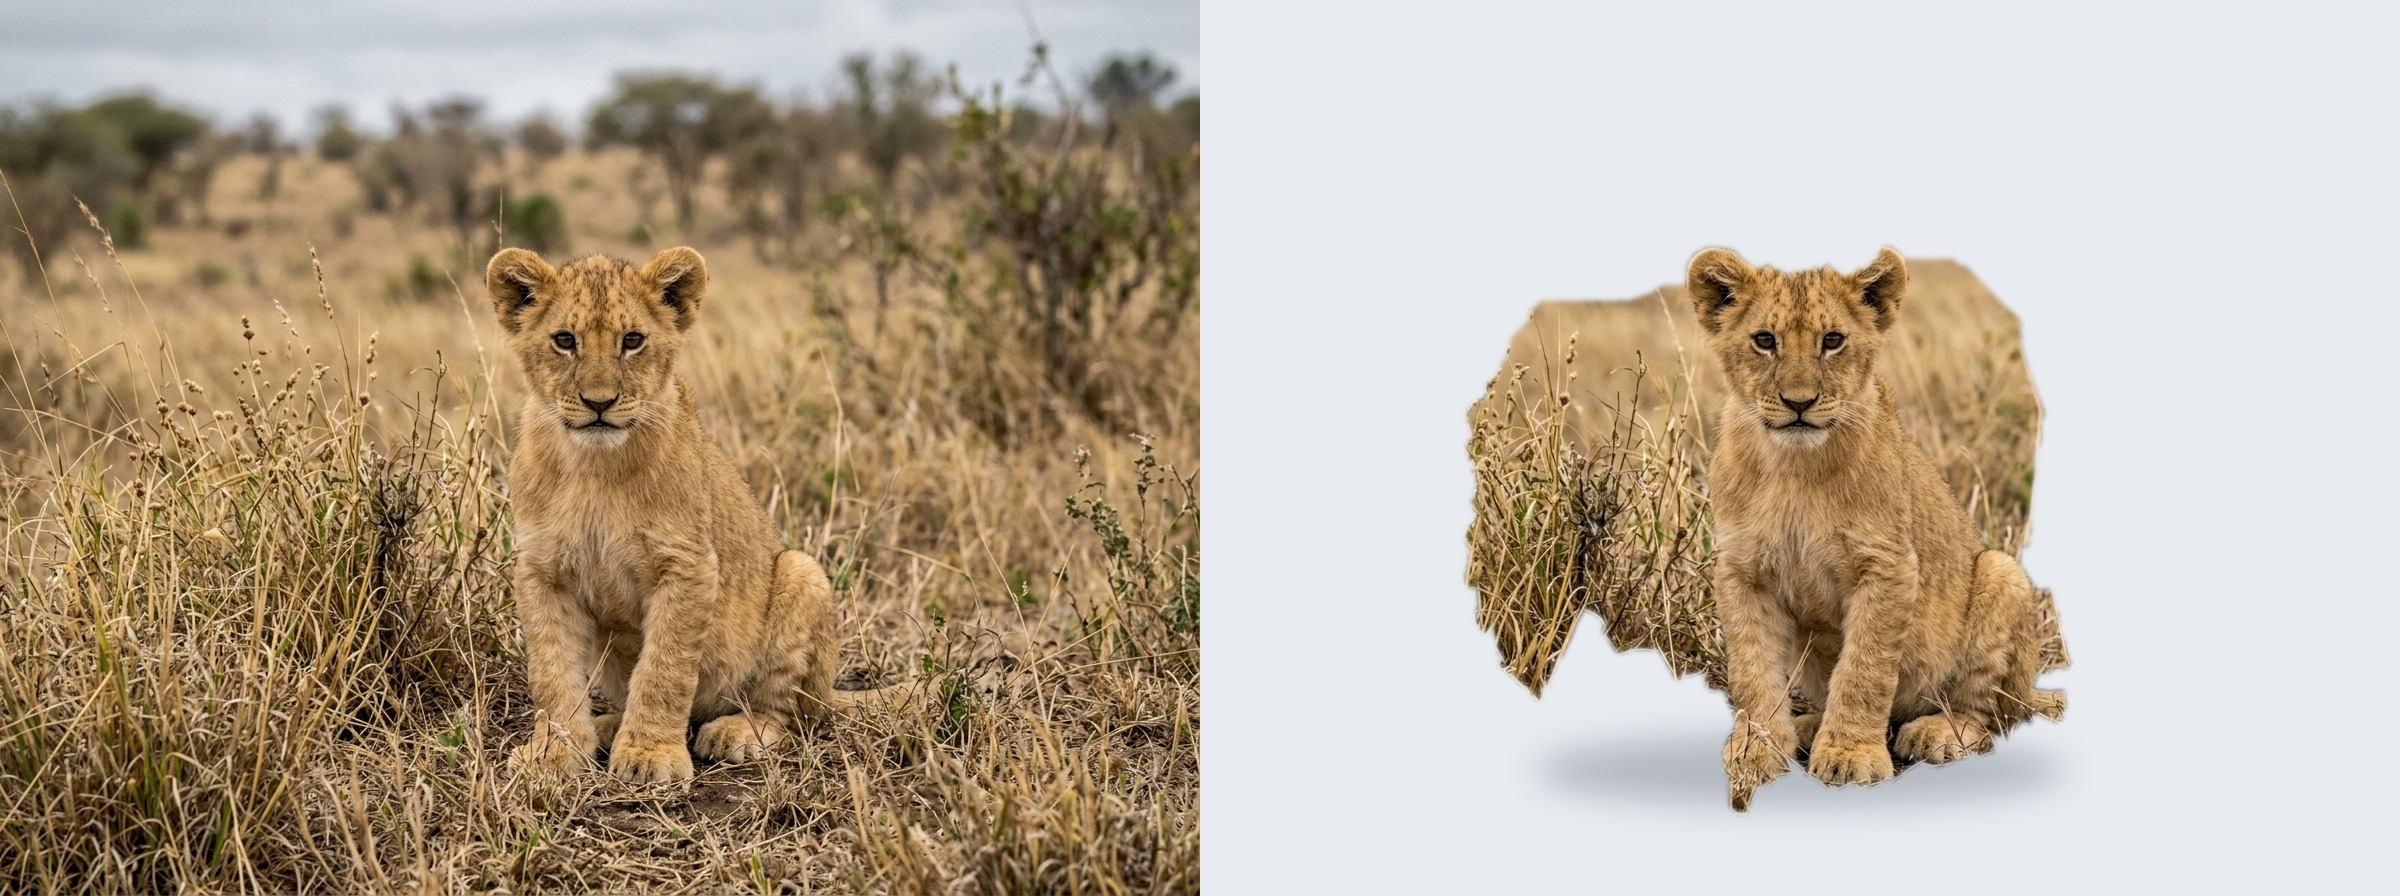
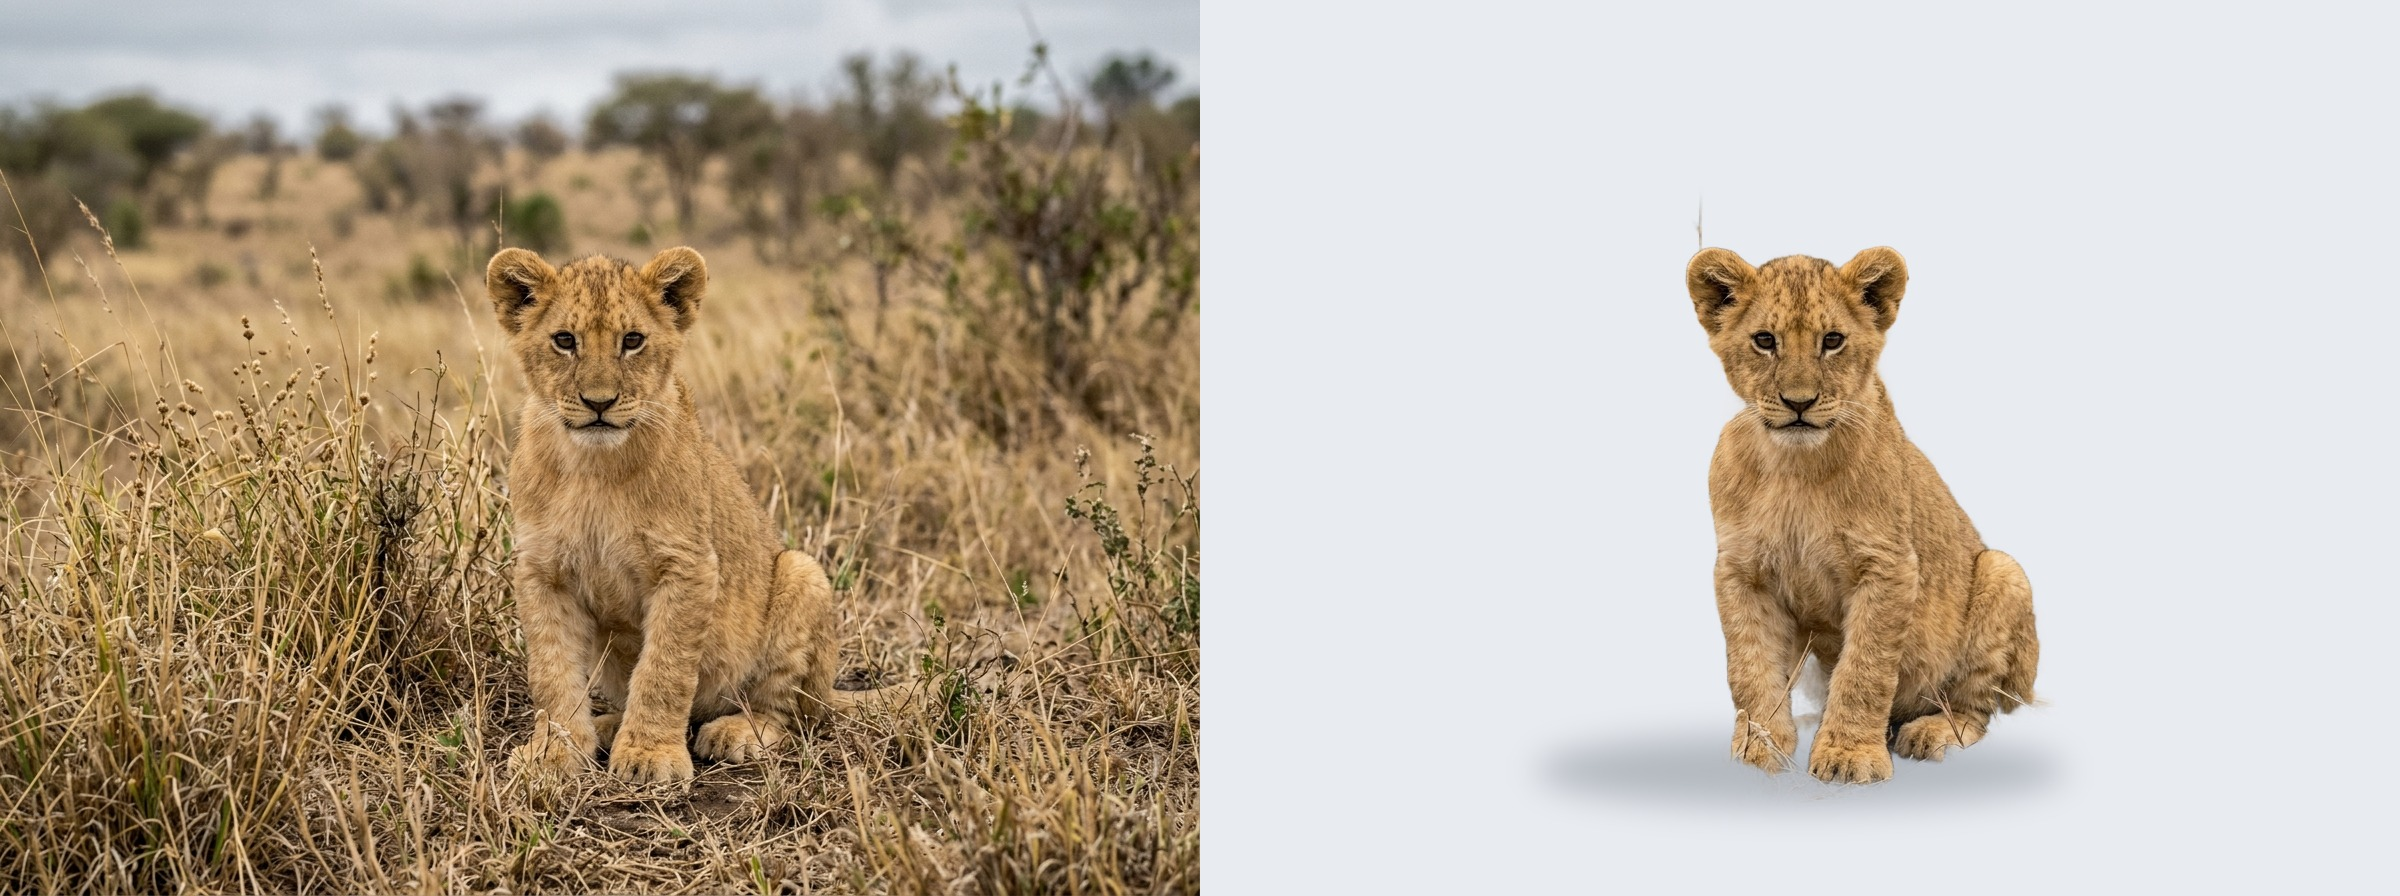
fix(ai-tools): fix neural background segmentation and regenerate cutout example

Changed region(s): [[0.5938, 0.3125, 0.8125, 0.9062], [0.7188, 0.2812, 0.875, 0.625], [0.8125, 0.6562, 0.875, 0.8438]]

diff --git a/ai_tools/segmentation.py b/ai_tools/segmentation.py
@@ -12,7 +12,11 @@ _pipeline_cache = {}
 
 def _load_pipeline(model_name: str = "briaai/RMBG-1.4"):
     try:
-        from transformers import pipeline
+        from transformers import pipeline, PreTrainedModel
+        if not hasattr(PreTrainedModel, "all_tied_weights_keys"):
+            PreTrainedModel.all_tied_weights_keys = property(
+                lambda self: getattr(self, "_all_tied_weights_keys", {})
+            )
     except ImportError as e:
         raise ImportError(
             "Background removal requires the optional 'transformers' and "
